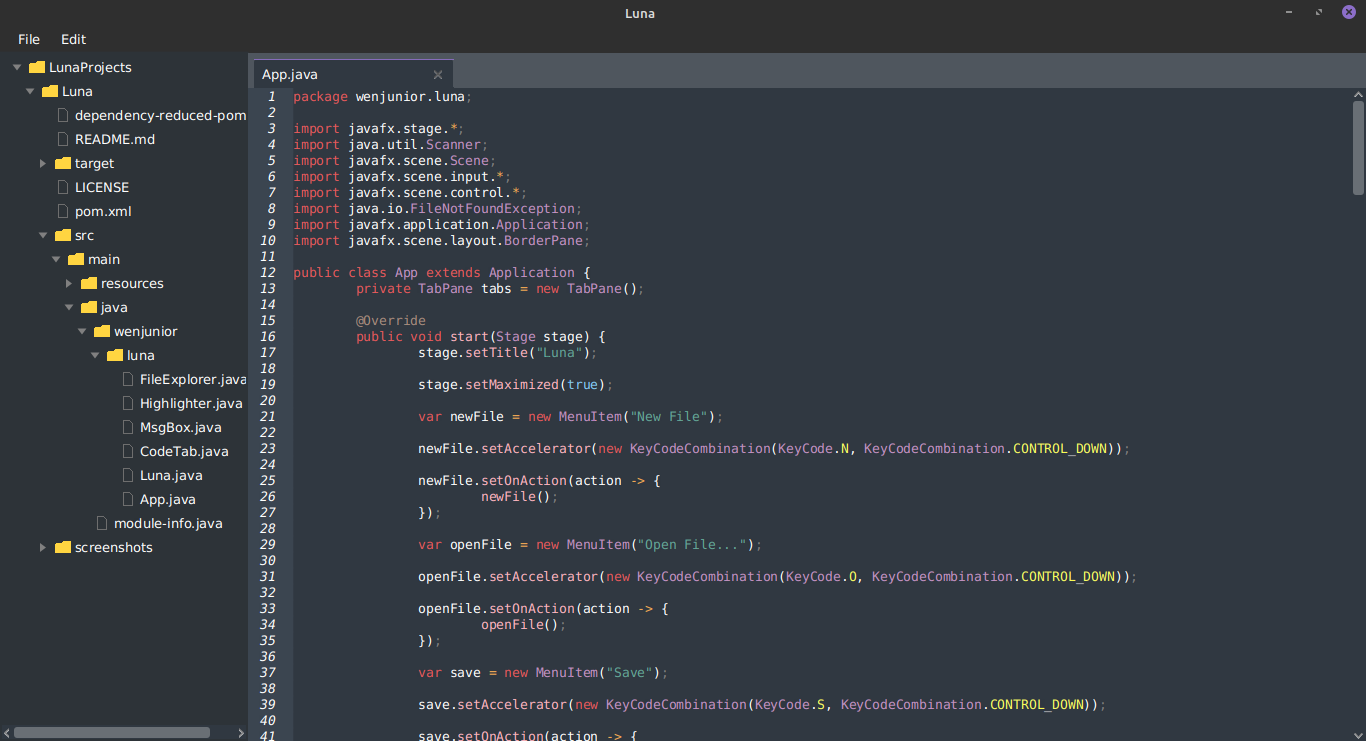
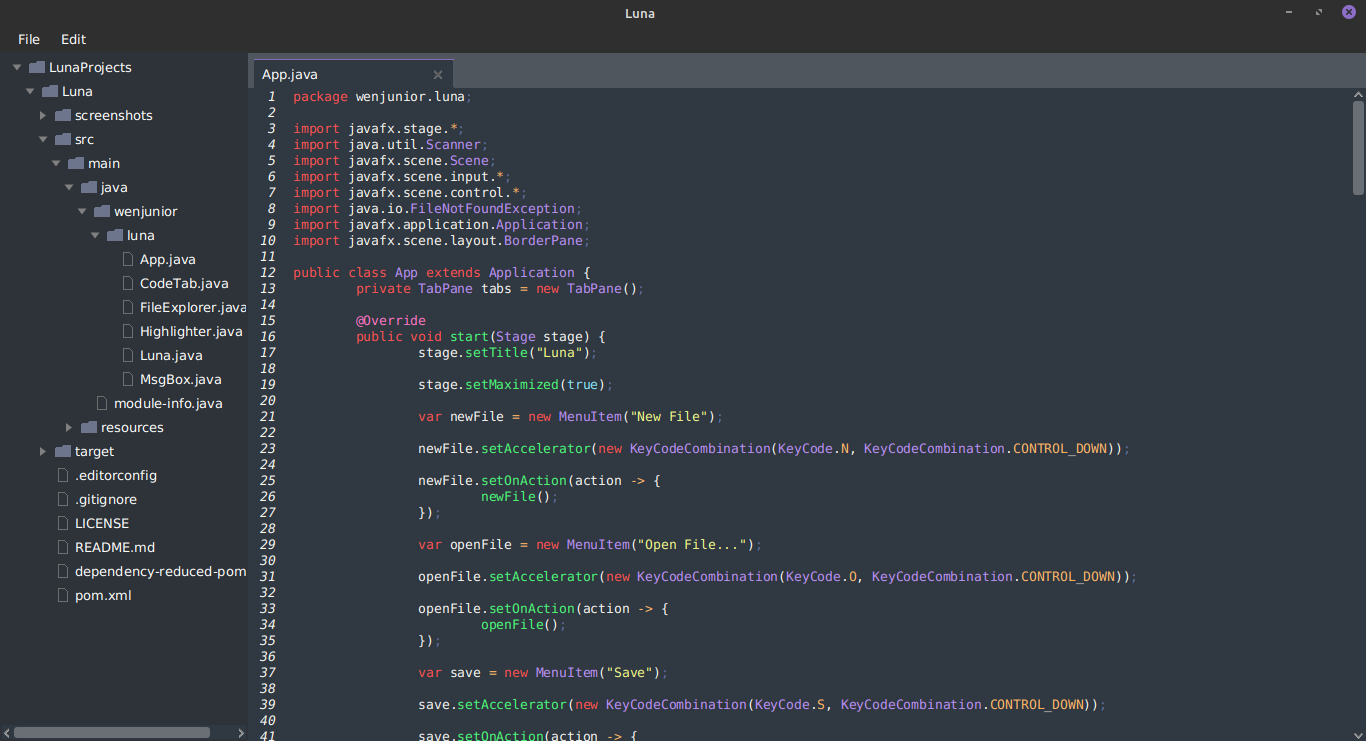
Agora a pasta .git é ignorada, o tema do realce de sintaxe e o dracula, e o explorador de arquivos mostra as pastas primeiro e depois os arquivos.

diff --git a/src/main/resources/css/dracula-theme.css b/src/main/resources/css/dracula-theme.css
@@ -1,0 +1,33 @@
+/* https://draculatheme.com/contribute#color-palette */
+
+.code-area .comment {
+	-fx-fill: #6272A4;
+}
+
+.code-area .cyan {
+	-fx-fill: #8BE9FD;
+}
+
+.code-area .green {
+	-fx-fill: #50FA7B;
+}
+
+.code-area .orange {
+	-fx-fill: #FFB86C;
+}
+
+.code-area .pink {
+	-fx-fill: #FF79C6;
+}
+
+.code-area .purple {
+	-fx-fill: #BD93F9;
+}
+
+.code-area .red {
+	-fx-fill: #FF5555;
+}
+
+.code-area .yellow {
+	-fx-fill: #F1FA8C;
+}

diff --git a/src/main/resources/css/styles.css b/src/main/resources/css/styles.css
@@ -62,7 +62,7 @@
 }
 
 .code-area .text {
-	-fx-fill: white;
+	-fx-fill: #F8F8F2;
 }
 
 .code-area .caret {
@@ -75,7 +75,7 @@
 }
 
 .lineno { /* LineNumberFactory */
-	-fx-background-color: #3B4550;
+	-fx-background-color: #303841;
 }
 
 .scroll-bar {

diff --git a/src/main/java/wenjunior/luna/Highlighter.java b/src/main/java/wenjunior/luna/Highlighter.java
@@ -17,7 +17,7 @@ public class Highlighter {
 		}
 
 		if (programmingLanguage.equals("Java")) {
-			var keywordPattern = "\\b(abstract|assert|boolean|break|byte|case|catch|char|class|const|continue|default|do|double|else|enum|extends|final|finally|float|for|goto|if|implements|import|instanceof|int|interface|long|native|new|package|private|protected|public|return|short|static|strictfp|super|switch|synchronized|this|throw|throws|transient|try|void|volatile|while|var|module|requires|exports)\\b";
+			var keywordPattern = "\\b(abstract|assert|boolean|break|byte|case|catch|char|class|const|continue|default|do|double|else|enum|exports|extends|final|finally|float|for|goto|if|implements|import|instanceof|int|interface|long|module|native|new|package|private|protected|public|requires|return|short|static|strictfp|super|switch|synchronized|this|throw|throws|transient|try|var|void|volatile|while)\\b";
 
 			var semicolonPattern = "\\;";
 
@@ -27,11 +27,11 @@ public class Highlighter {
 
 			var numberPattern = "[0-9]";
 
-			var classPattern = "(?<=\\.)[A-Z]\\w+(?=\\;)|[A-Z]\\w+(?=\\[)|[A-Z]\\w+(?=\\<)|(?<=class\\s)[A-Z]\\w+|(?<=new\\s)[A-Z]\\w+|(?<=extends\\s)[A-Z]\\w+|(?<=implements\\s)[A-Z]\\w+|(?<![a-z]\\w+)[A-Z]\\w+(?=\\.)|[A-Z]\\w+(?=\\s[a-z])";
+			var classPattern = "(?<![a-z])[A-Z]([a-z]\\w+|[a-z])";
 
 			var specialCharPattern = "=|\\+|-|\\*|\\/|!|&|\\|:|\\>|\\<|\\?";
 
-			var booleanPattern = "true|false";
+			var primitiveTypesAndNullAndBooleanPattern = "\\b(short|int|long|float|double|char|null|bool|true|false)\\b";
 
 			var singleQuoteStringPattern = "'(.*?)'";
 
@@ -49,7 +49,7 @@ public class Highlighter {
 				+ "|(?<NUMBER>" + numberPattern + ")"
 				+ "|(?<CLASS>" + classPattern + ")"
 				+ "|(?<SPECIALCHAR>" + specialCharPattern + ")"
-				+ "|(?<BOOLEAN>" + booleanPattern + ")"
+				+ "|(?<PRIMITIVETYPESANDNULLANDBOOLEAN>" + primitiveTypesAndNullAndBooleanPattern + ")"
 				+ "|(?<SINGLEQUOTESTRING>" + singleQuoteStringPattern + ")"
 				+ "|(?<FUNCTION>" + functionPattern + ")"
 				+ "|(?<CONSTANT>" + constantPattern + ")"
@@ -58,27 +58,27 @@ public class Highlighter {
 
 			groups.put("KEYWORD", "red");
 
-			groups.put("SEMICOLON", "grey");
+			groups.put("SEMICOLON", "comment");
 
-			groups.put("STRING", "green");
+			groups.put("STRING", "yellow");
 
-			groups.put("COMMENT", "light-grey");
+			groups.put("COMMENT", "comment");
 
-			groups.put("NUMBER", "dark-blue");
+			groups.put("NUMBER", "pink");
 
 			groups.put("CLASS", "purple");
 
 			groups.put("SPECIALCHAR", "orange");
 
-			groups.put("BOOLEAN", "light-blue");
+			groups.put("PRIMITIVETYPESANDNULLANDBOOLEAN", "cyan");
 
-			groups.put("SINGLEQUOTESTRING", "green");
+			groups.put("SINGLEQUOTESTRING", "yellow");
 
-			groups.put("FUNCTION", "pink");
+			groups.put("FUNCTION", "green");
 
-			groups.put("CONSTANT", "yellow");
+			groups.put("CONSTANT", "orange");
 
-			groups.put("ANNOTATION", "brown");
+			groups.put("ANNOTATION", "pink");
 		}
 	}
 

diff --git a/src/main/java/wenjunior/luna/CodeTab.java b/src/main/java/wenjunior/luna/CodeTab.java
@@ -29,6 +29,8 @@ public class CodeTab extends Tab {
 	public CodeTab() {
 		setText(this.name);
 
+		codeArea.setWrapText(true);
+
 		codeArea.setParagraphGraphicFactory(LineNumberFactory.get(codeArea));
 
 		var scrollPane = new VirtualizedScrollPane<>(codeArea);
@@ -59,6 +61,8 @@ public class CodeTab extends Tab {
 		setText(this.name);
 
 		updateHighlighter();
+
+		codeArea.setWrapText(true);
 
 		codeArea.setParagraphGraphicFactory(LineNumberFactory.get(codeArea));
 
@@ -213,7 +217,7 @@ public class CodeTab extends Tab {
 
 		var dialogPane = dialog.getDialogPane();
 
-		dialogPane.getStylesheets().add(getClass().getResource("/css/dark-theme.css").toExternalForm());
+		dialogPane.getStylesheets().add(getClass().getResource("/css/styles.css").toExternalForm());
 
 		dialogPane.getStyleClass().add("text-input-dialog");
 
@@ -279,7 +283,7 @@ public class CodeTab extends Tab {
 
 		dialogPane.getButtonTypes().addAll(ButtonType.OK, ButtonType.CANCEL);
 
-		dialogPane.getStylesheets().add(getClass().getResource("/css/dark-theme.css").toExternalForm());
+		dialogPane.getStylesheets().add(getClass().getResource("/css/styles.css").toExternalForm());
 
 		dialogPane.getStyleClass().add("text-input-dialog");
 

diff --git a/src/main/java/wenjunior/luna/FileExplorer.java b/src/main/java/wenjunior/luna/FileExplorer.java
@@ -53,8 +53,22 @@ public class FileExplorer extends TreeView<String> {
 			return;
 		}
 
-		for (var file : folder.listFiles()) {
-			if (!file.isHidden()) {
+		var files = folder.listFiles();
+
+		Arrays.sort(files, (file1, file2) -> {
+			if (file1.isDirectory() && !file2.isDirectory()) {
+				return -1;
+			}
+
+			if (!file1.isDirectory() && file2.isDirectory()) {
+				return 1;
+			}
+
+			return file1.getName().compareTo(file2.getName());
+		});
+
+		for (var file : files) {
+			if (!file.isDirectory() | !file.getName().equals(".git")) {
 				var iterator = mother.getChildren().iterator();
 
 				var filename = file.getName();

diff --git a/src/main/java/wenjunior/luna/App.java b/src/main/java/wenjunior/luna/App.java
@@ -138,9 +138,9 @@ public class App extends Application {
 
 		var scene = new Scene(borderPane, 1280, 720);
 
-		scene.getStylesheets().add(getClass().getResource("/css/dark-theme.css").toExternalForm());
+		scene.getStylesheets().add(getClass().getResource("/css/styles.css").toExternalForm());
 
-		scene.getStylesheets().add(getClass().getResource("/css/colors.css").toExternalForm());
+		scene.getStylesheets().add(getClass().getResource("/css/dracula-theme.css").toExternalForm());
 
 		stage.setScene(scene);
 

diff --git a/src/main/java/wenjunior/luna/MsgBox.java b/src/main/java/wenjunior/luna/MsgBox.java
@@ -13,7 +13,7 @@ public class MsgBox {
 
 		msgBox.setContentText(msg);
 
-		msgBox.getDialogPane().getStylesheets().add(MsgBox.class.getResource("/css/dark-theme.css").toExternalForm());
+		msgBox.getDialogPane().getStylesheets().add(MsgBox.class.getResource("/css/styles.css").toExternalForm());
 
 		msgBox.getDialogPane().getStyleClass().add("msg-box");
 
